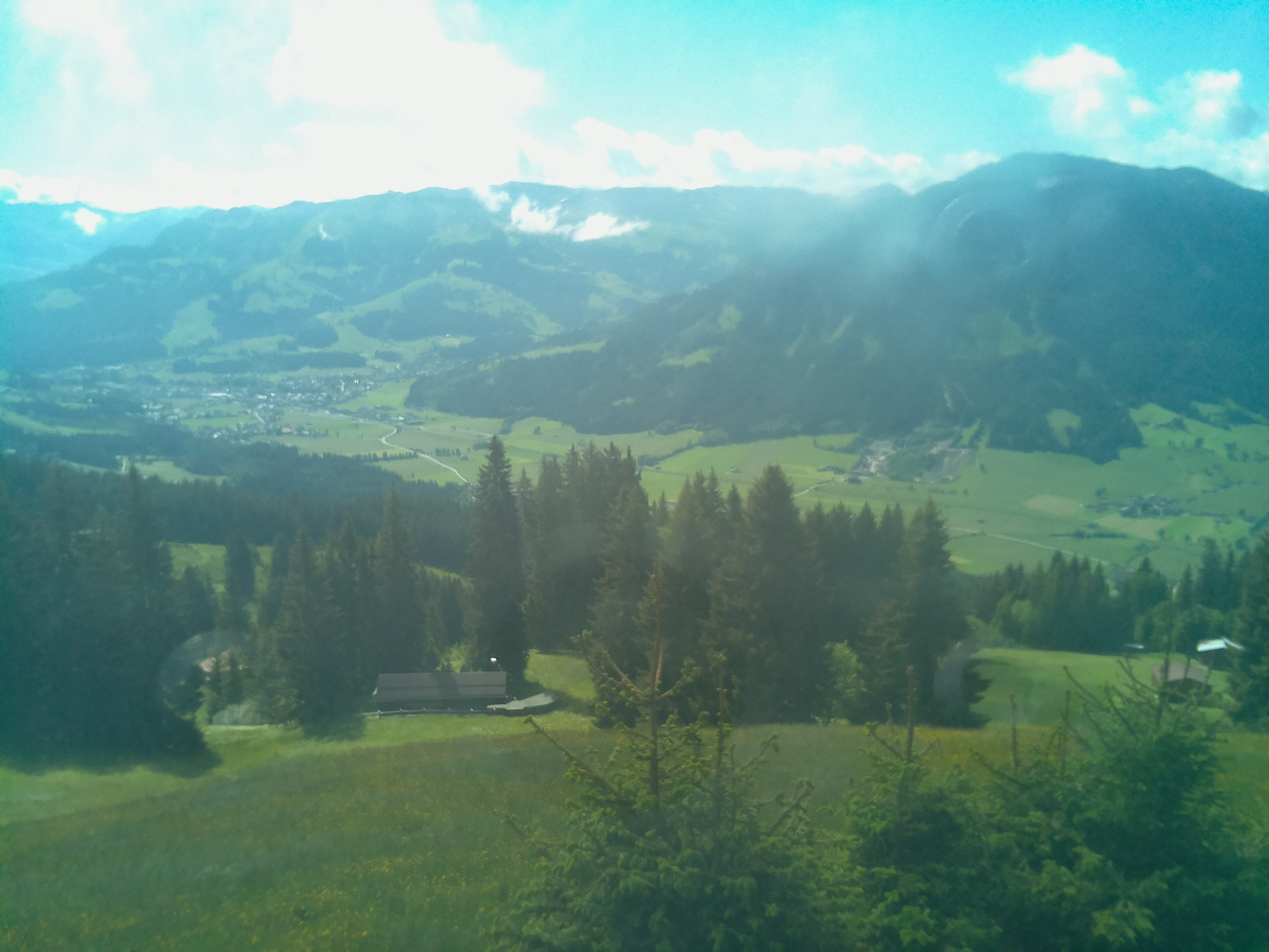
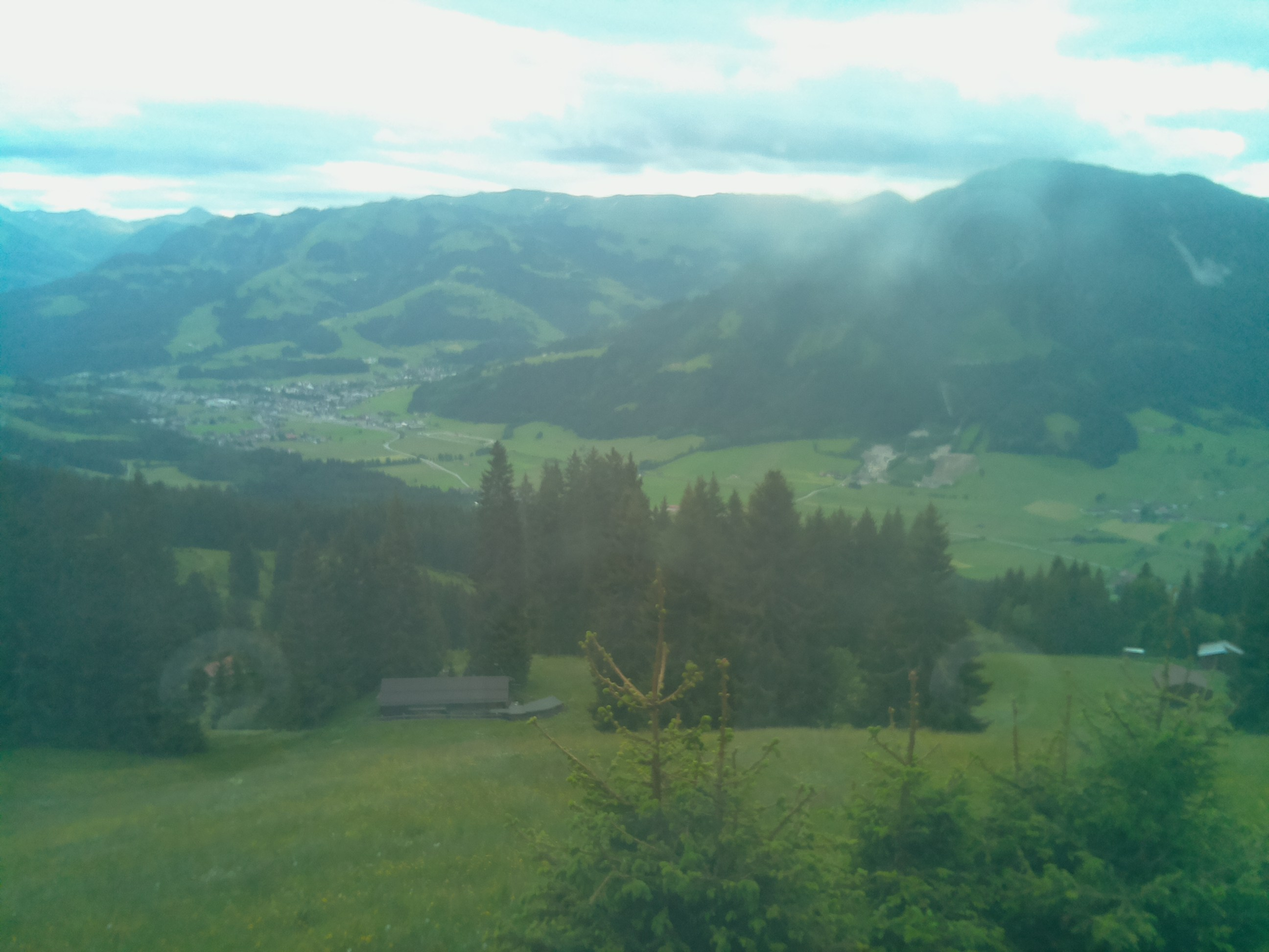
I'm a bot beep boop

diff --git a/resources/huette.md b/resources/huette.md
@@ -6,13 +6,13 @@ image: '/assets/img/'
 description: 'Live image from the Austrian alps'
 twitter_text: ' '
 ---
-## Latest image from 01 June 2022 at 10:10
+## Latest image from 01 June 2022 at 16:10
 <div class="huette">
   <div class="huette-image">
     <img src="{{ "/assets/img/huette.jpg" | prepend: site.baseurl }}">
   </div>
   <div class="huette-text">
-        <h2>Current Temperature: 14.75°C</h2>
+        <h2>Current Temperature: 15.687°C</h2>
         <p>A solar powered raspberry pi left alone in the wild is sending daily images and temperature data to this website. It should give you an impression about the current weather in the "Brixental".</p>
 
   </div>

diff --git a/rpi-script/huette.md b/rpi-script/huette.md
@@ -6,13 +6,13 @@ image: '/assets/img/'
 description: 'Live image from the Austrian alps'
 twitter_text: ' '
 ---
-## Latest image from 01 June 2022 at 10:10
+## Latest image from 01 June 2022 at 16:10
 <div class="huette">
   <div class="huette-image">
     <img src="{{ "/assets/img/huette.jpg" | prepend: site.baseurl }}">
   </div>
   <div class="huette-text">
-        <h2>Current Temperature: 14.75°C</h2>
+        <h2>Current Temperature: 15.687°C</h2>
         <p>A solar powered raspberry pi left alone in the wild is sending daily images and temperature data to this website. It should give you an impression about the current weather in the "Brixental".</p>
 
   </div>
